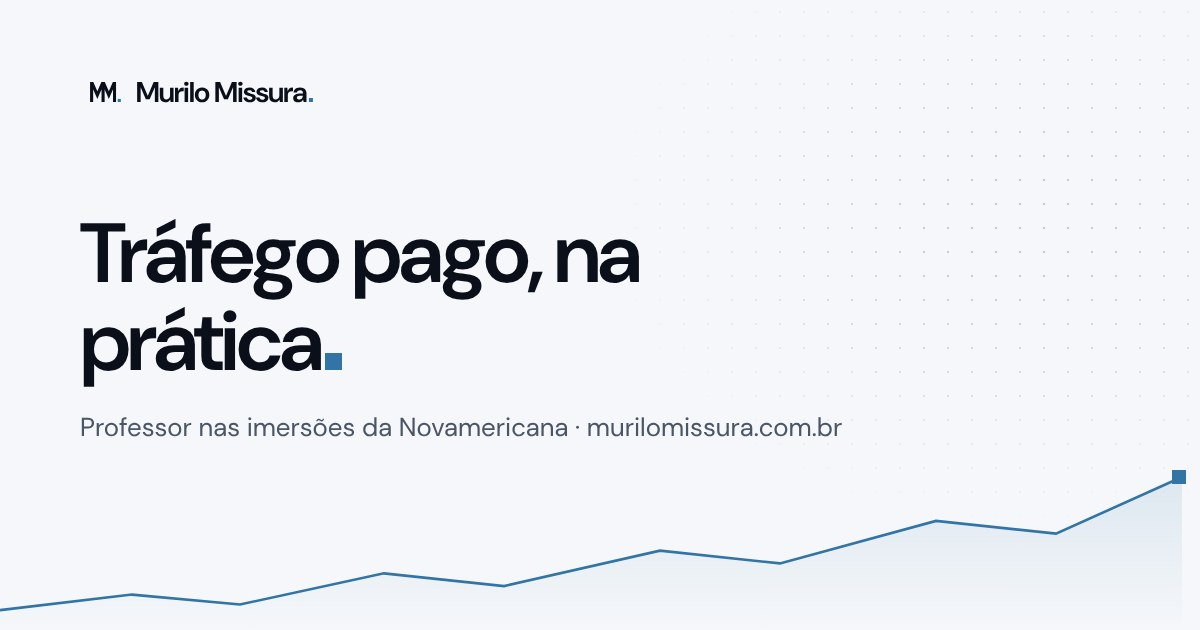
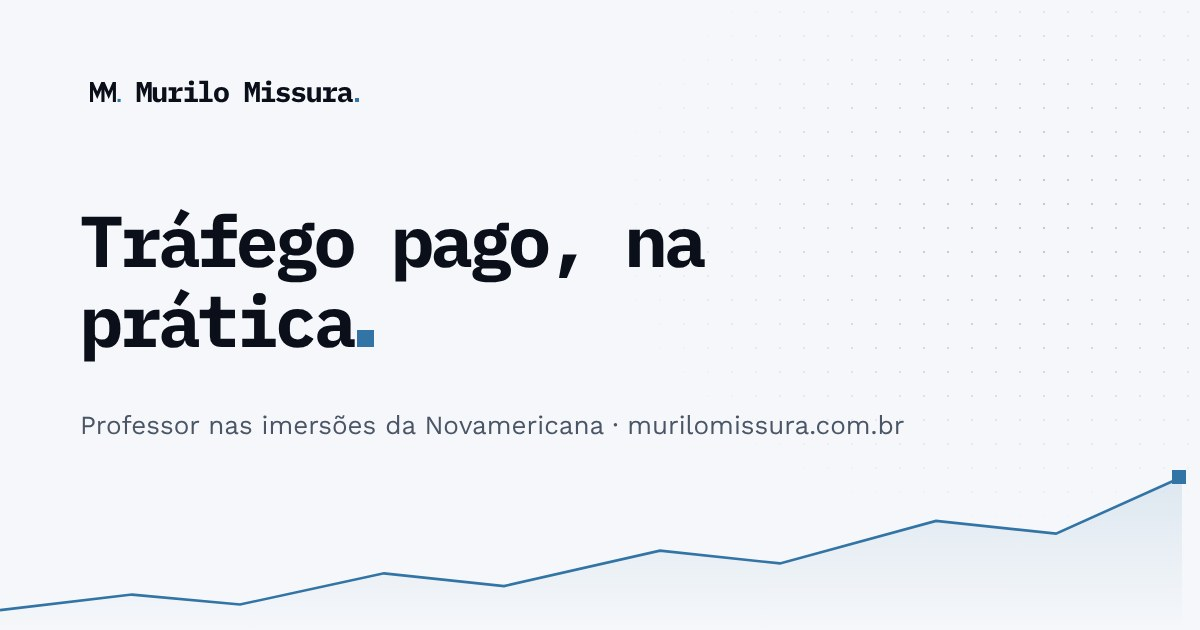
Imagem de compartilhamento com a tipografia nova
Claude-Session: https://claude.ai/code/session_015yHtewuuKfMTTXVUxa5Psf

Changed region(s): [[0.0617, 0.3317, 0.5858, 0.6333], [0.0617, 0.6635, 0.7708, 0.6937], [0.0925, 0.1206, 0.3083, 0.181]]

diff --git a/README.md b/README.md
@@ -3,4 +3,4 @@
 Site pessoal de Murilo Missura. HTML estático, publicado pela Cloudflare Pages.
 
 - Sem build: o diretório raiz é publicado como está.
-- Identidade visual: manual de marca Murilo Missura (DM Sans, papel, preto e azul Missura #3274A5).
+- Identidade visual: manual de marca Murilo Missura (IBM Plex Mono + Work Sans, papel, preto e azul Missura #3274A5).
